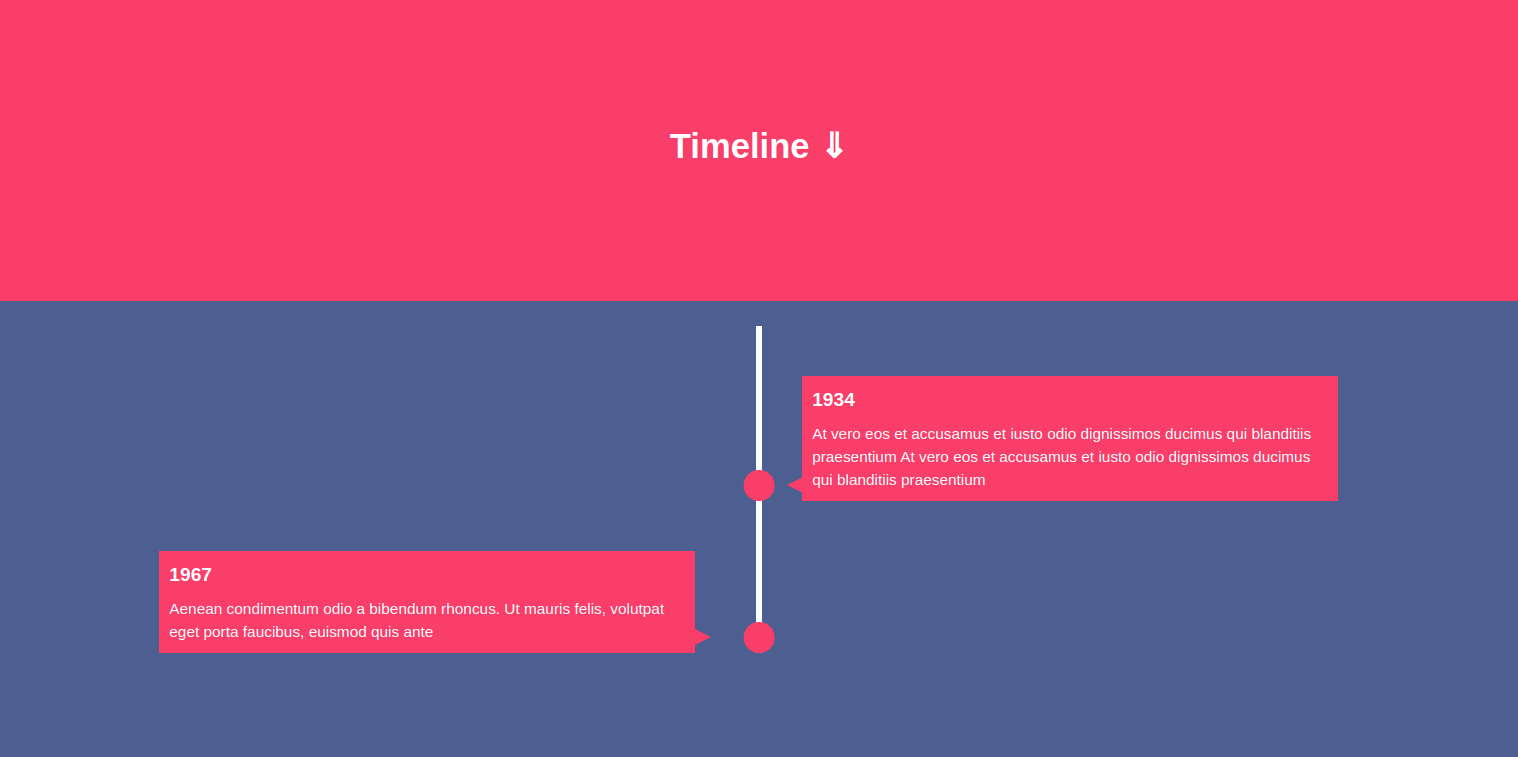
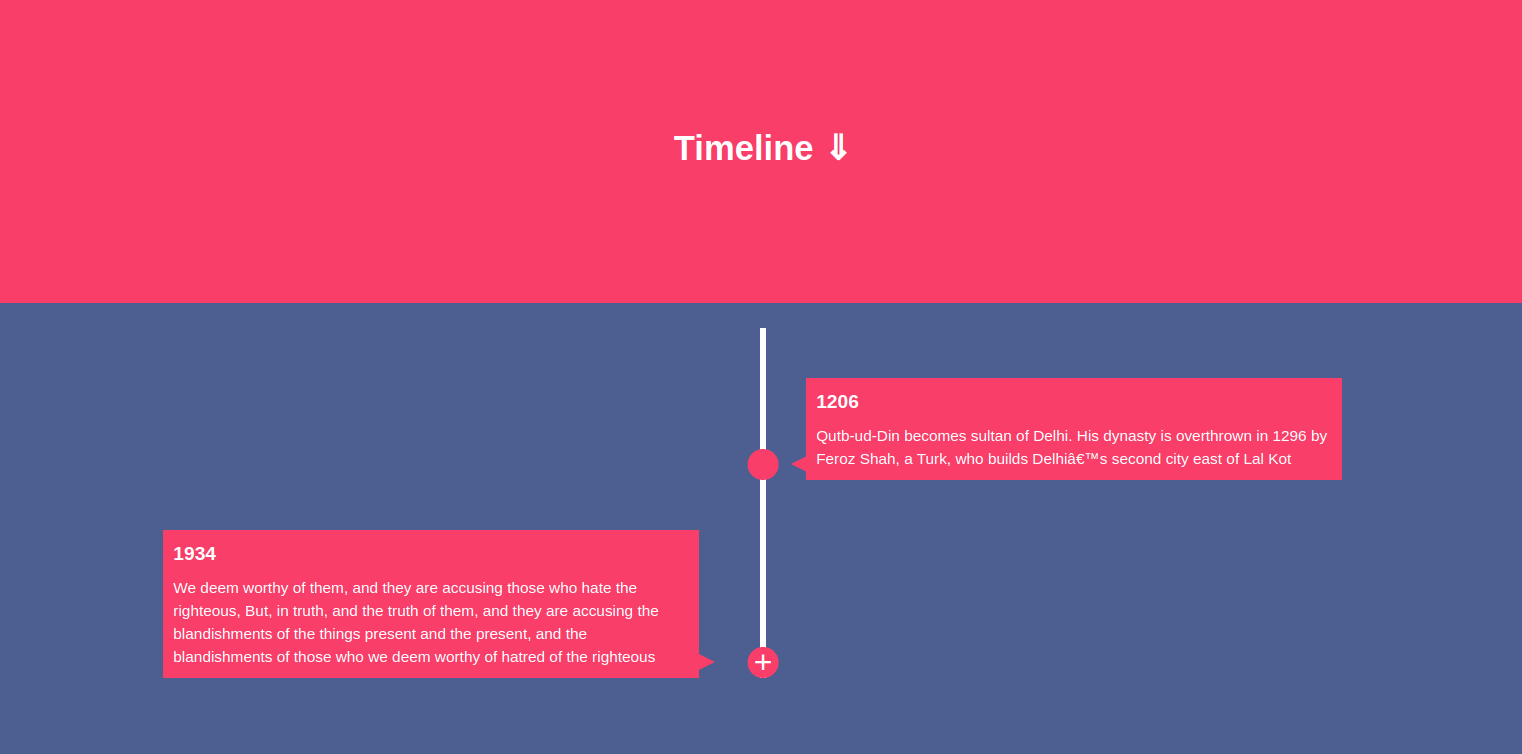
FIX: New look

diff --git a/README.md b/README.md
@@ -4,6 +4,9 @@ This repo consists of a simple Timeline UI created using **Javascript**, **HTML*
 
 ![Project Look](look1.png)
 
+Add more new events in your Timeline.
+![Project Look](look2.png)
+
 
 ### How to Run
 Open index.html in your browser.
